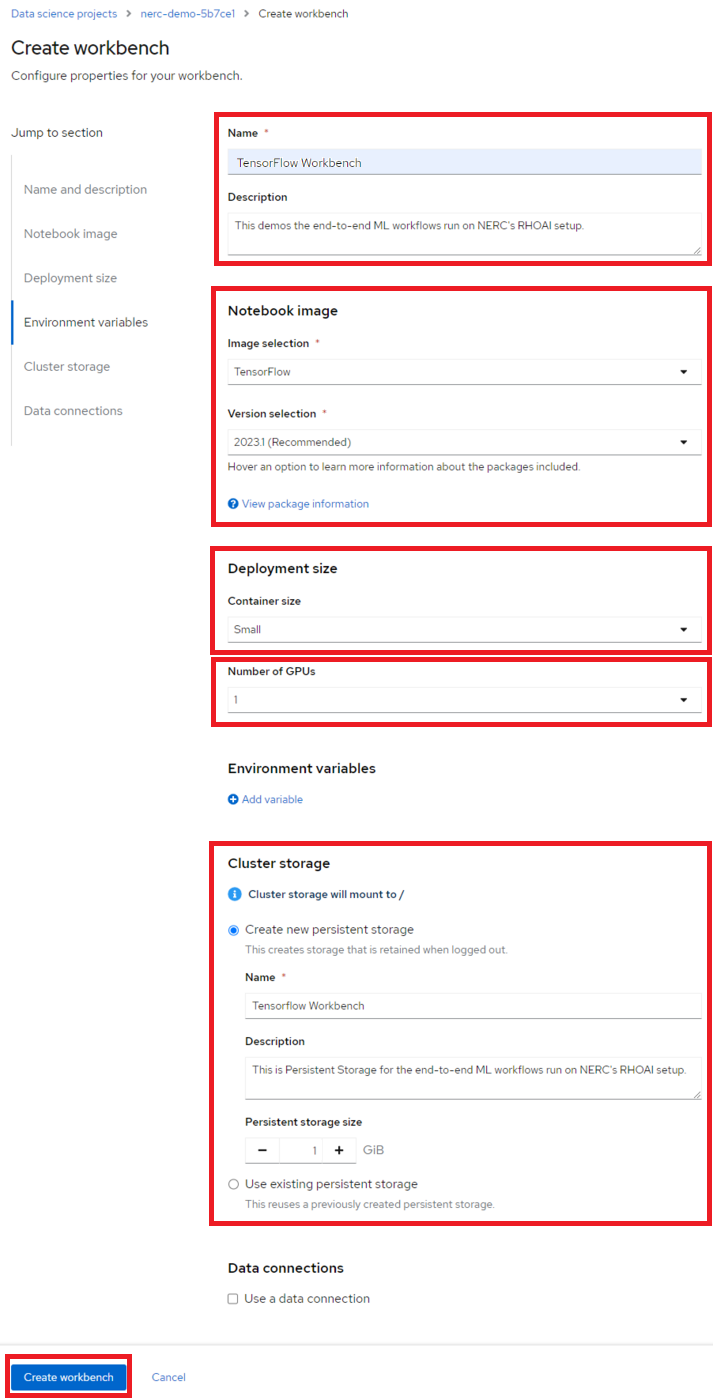
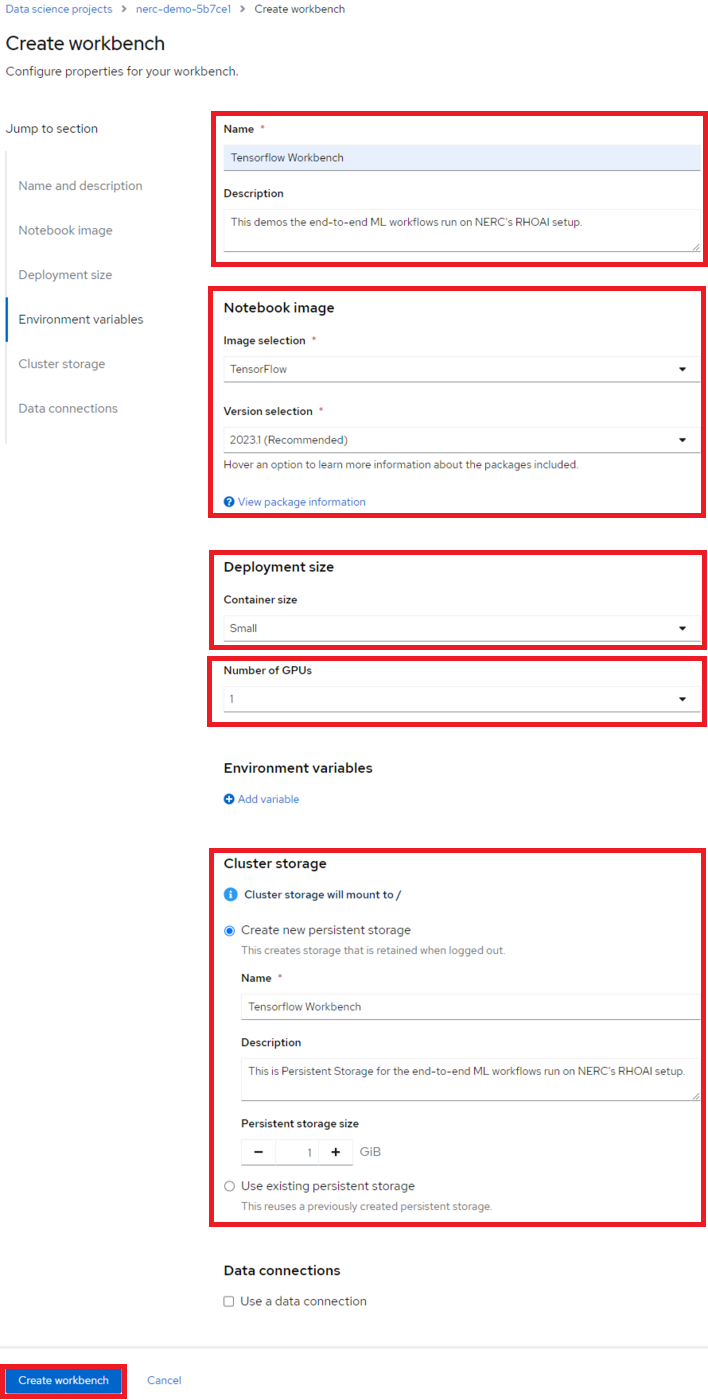
tensorflow naming fixed

diff --git a/docs/openshift-ai/data-science-project/using-projects-the-rhoai.md b/docs/openshift-ai/data-science-project/using-projects-the-rhoai.md
@@ -85,7 +85,7 @@ Once you have entered the information for your workbench, click **Create**.
 
 ![Fill Workbench Information](images/tensor-flow-workbench.png)
 
-For our example project, let's name it "TensorFlow Workbench". We'll select the
+For our example project, let's name it "Tensorflow Workbench". We'll select the
 **TensorFlow** image, choose a **Deployment size** of **Small**, **Number of GPUs**
 as **1** and allocate a **Cluster storage** space of **1GB**.
 
